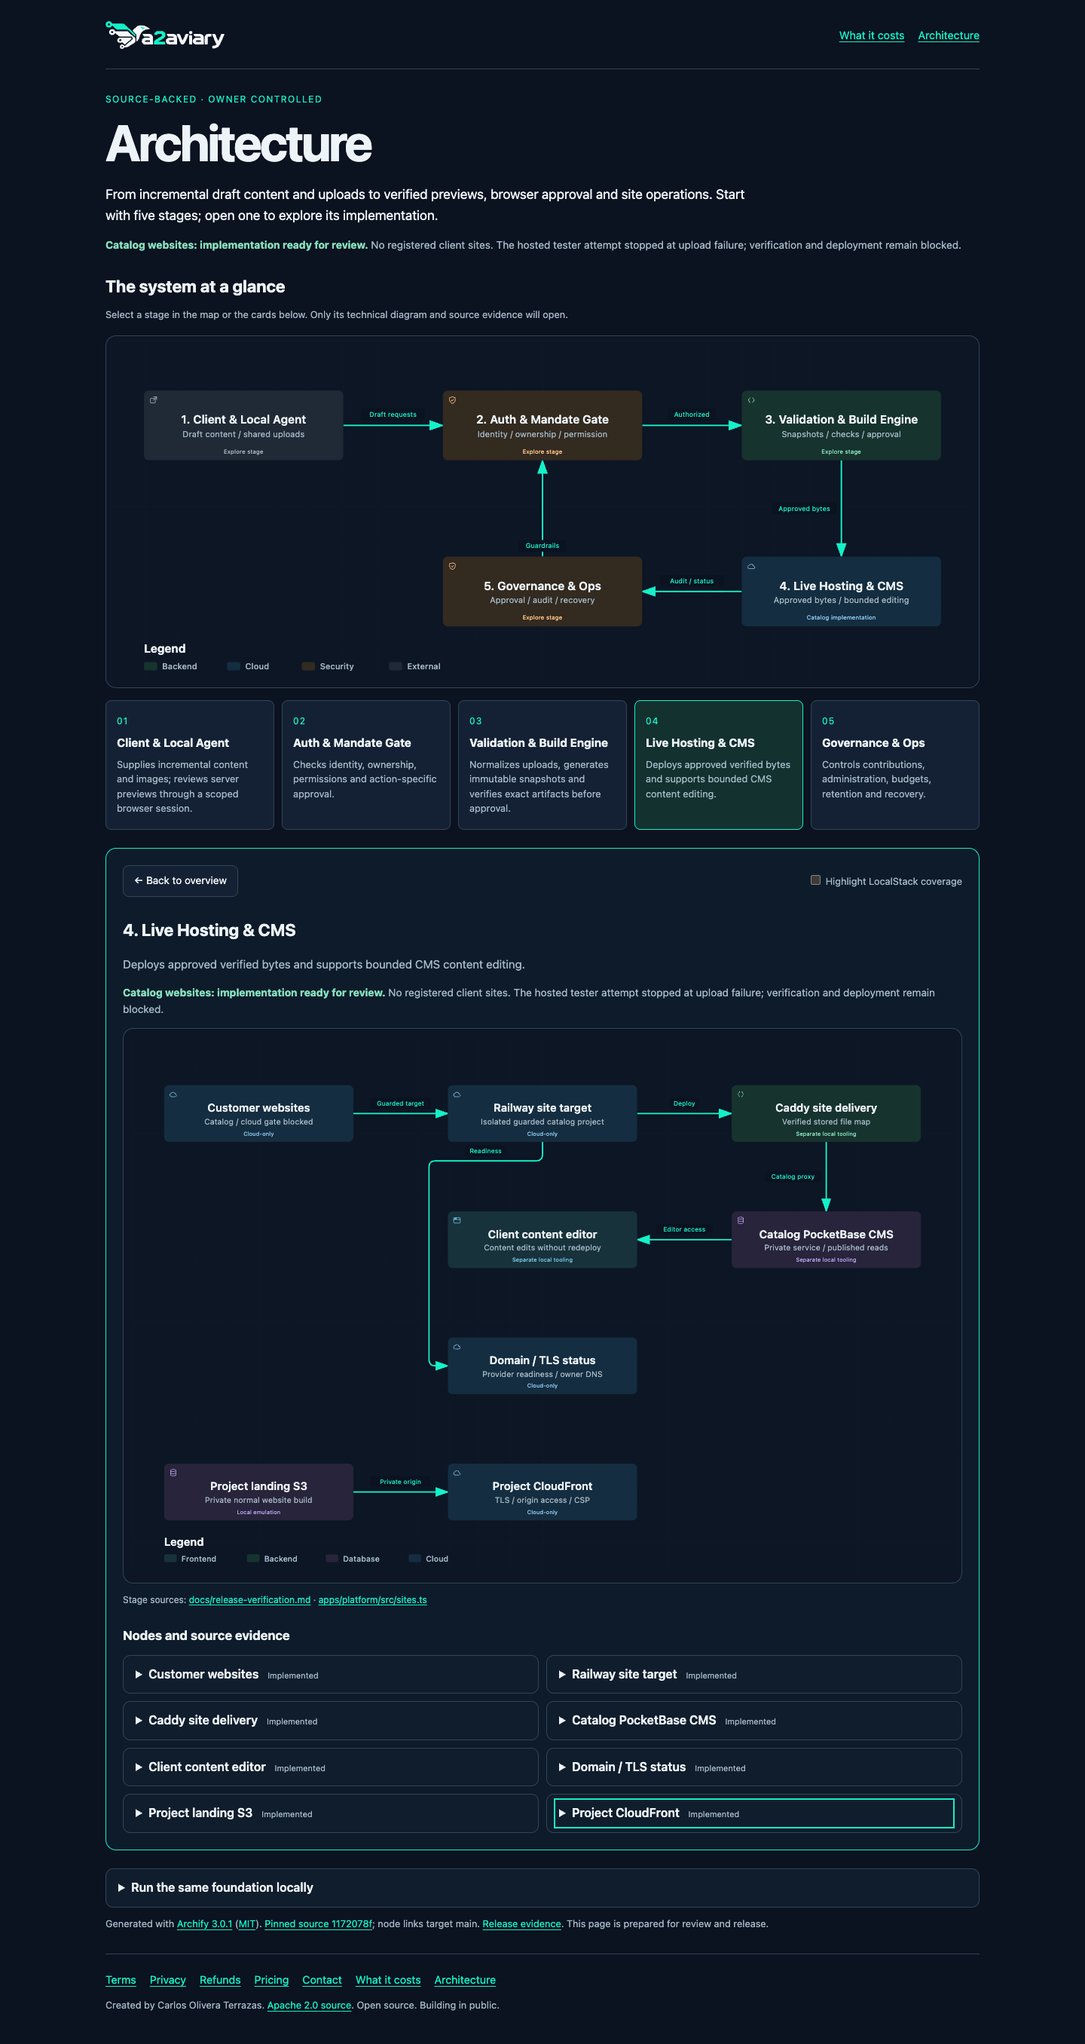
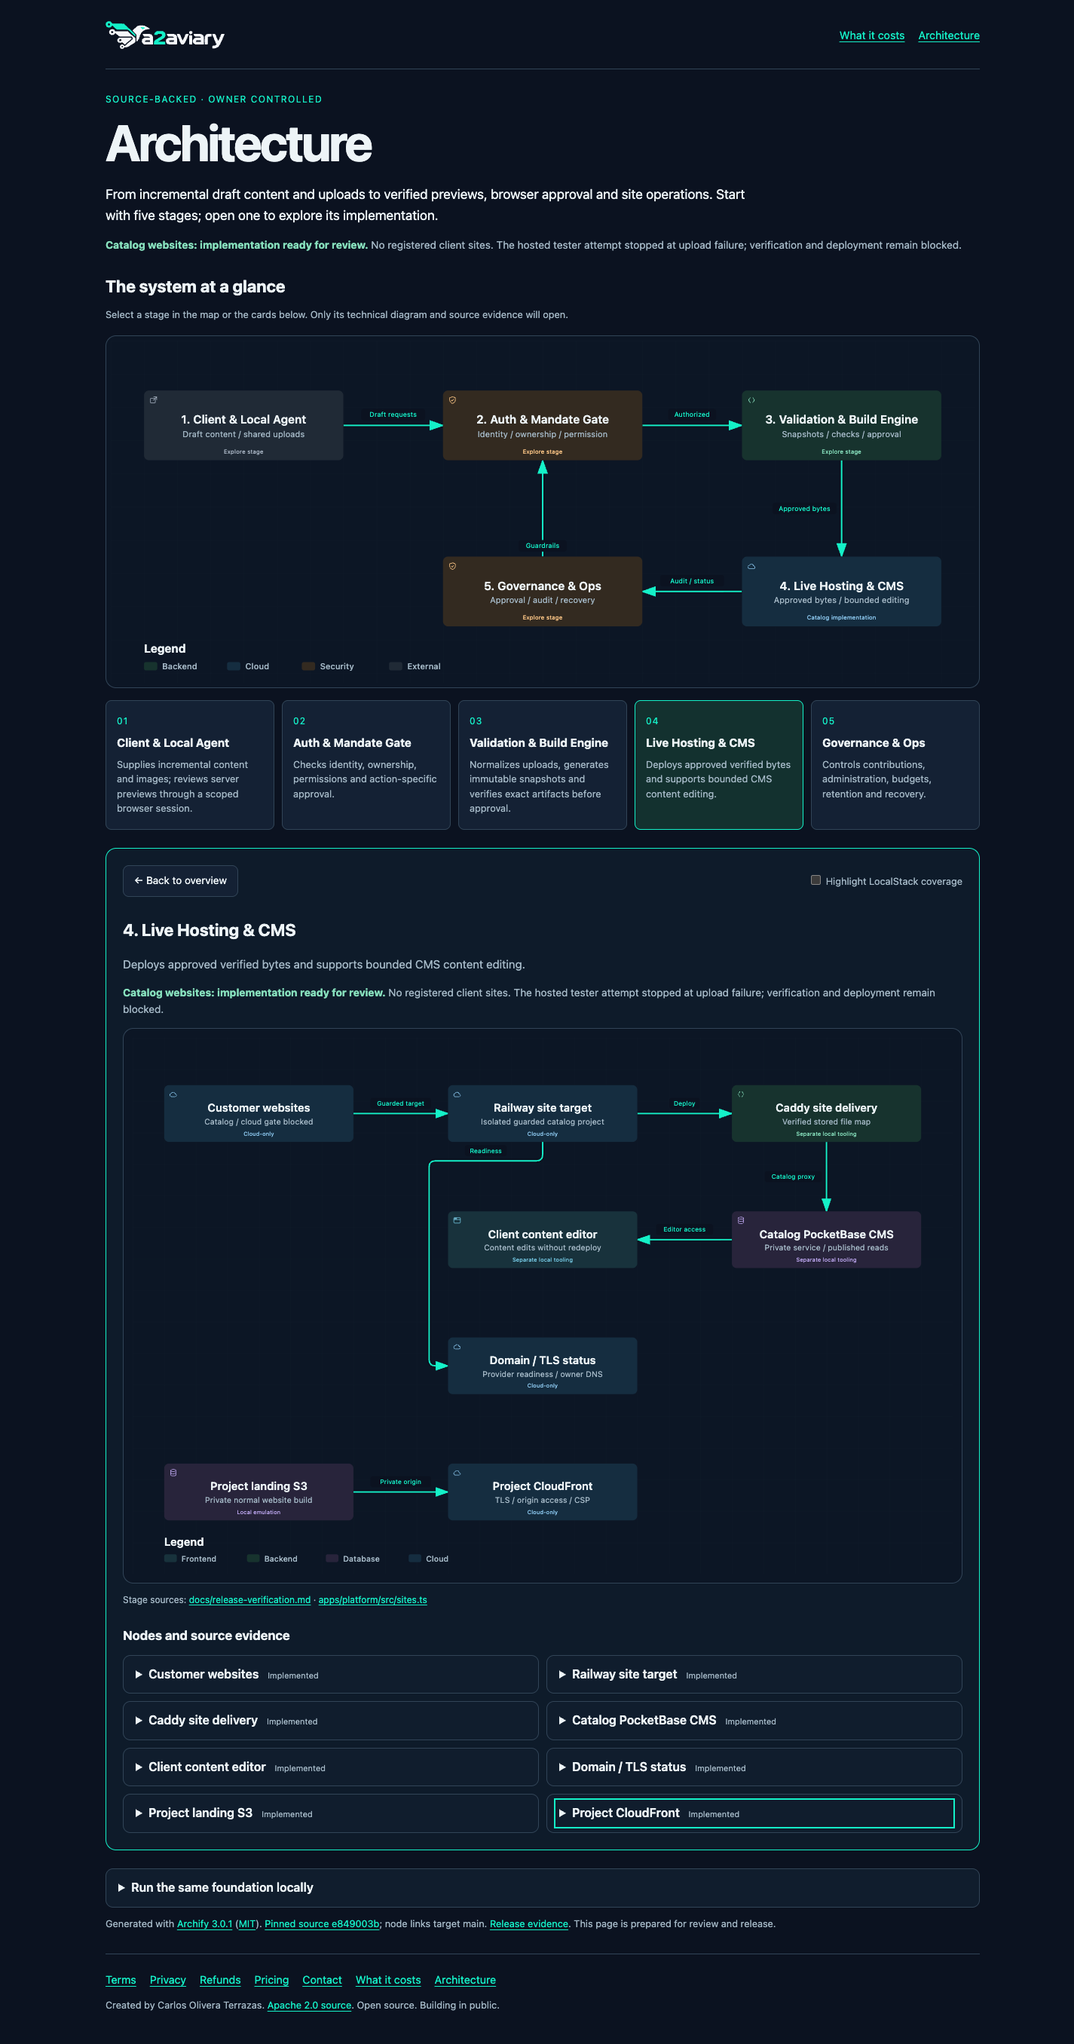
Refresh component library architecture provenance and local evidence

diff --git a/website/architecture/index.html b/website/architecture/index.html
@@ -656,15 +656,15 @@
         <text data-detail="fine" x="520" y="124" class="t-database" font-size="7" text-anchor="middle">Separate local tooling</text>
         </g>
 
-        <g id="engine-node-engine-astro" data-node-id="engine-astro" data-local-mode="Separate local tooling" data-status="Implemented" aria-controls="detail-engine-astro" data-node-label="Astro catalog generator" aria-label="Focus Astro catalog generator, Relative paths / fixed blocks, Architecture component" data-node-kind="backend" data-node-sublabel="Relative paths / fixed blocks" data-node-tag="Separate local tooling" data-node-context="Architecture component">
-          <title>Astro catalog generator · Relative paths / fixed blocks · Architecture component · Separate local tooling</title>
+        <g id="engine-node-engine-astro" data-node-id="engine-astro" data-local-mode="Separate local tooling" data-status="Implemented" aria-controls="detail-engine-astro" data-node-label="Astro catalog generator" aria-label="Focus Astro catalog generator, Checked templates / scoped CSS, Architecture component" data-node-kind="backend" data-node-sublabel="Checked templates / scoped CSS" data-node-tag="Separate local tooling" data-node-context="Architecture component">
+          <title>Astro catalog generator · Checked templates / scoped CSS · Architecture component · Separate local tooling</title>
           <rect x="760" y="60" width="240" height="72" rx="6" class="c-mask"/>
           <rect x="760" y="60" width="240" height="72" rx="6" class="c-backend" stroke-width="1.5"/>
           <g aria-hidden="true" data-semantic-sigil="backend" class="semantic-sigil s-backend" transform="translate(766 66) scale(0.6875)">
             <path d="M6 3 3 8l3 5M10 3l3 5-3 5"/>
           </g>
           <text data-node-label="" data-detail-anchor="" x="880" y="94" class="t-primary" font-size="11" font-weight="600" text-anchor="middle">Astro catalog generator</text>
-        <text data-detail="context" x="880" y="110" class="t-muted" font-size="9" text-anchor="middle">Relative paths / fixed blocks</text>
+        <text data-detail="context" x="880" y="110" class="t-muted" font-size="9" text-anchor="middle">Checked templates / scoped CSS</text>
         <text data-detail="fine" x="880" y="124" class="t-backend" font-size="7" text-anchor="middle">Separate local tooling</text>
         </g>
 
@@ -822,7 +822,7 @@
         </g>
       </svg></div><p class="stage-sources">Stage sources: <a href="https://github.com/carlos-olivera/a2aviary/blob/main/apps/platform/src/drafts.ts#L651">apps/platform/src/drafts.ts</a> · <a href="https://github.com/carlos-olivera/a2aviary/blob/main/apps/platform/src/sites.ts#L471">apps/platform/src/sites.ts</a></p><h3>Nodes and source evidence</h3><div class="node-list"><details id="detail-engine-validate" data-component="engine-validate"><summary>Draft and asset validation <span class="badge">Implemented</span></summary><p class="coverage-label">Local coverage: Separate local tooling</p><p>Draft batches validate atomically while missing content and forward references remain preview blockers. A bounded secret-free child produces metadata-stripped WebP; server metadata derives only from output bytes.</p><p><a href="https://github.com/carlos-olivera/a2aviary/blob/main/apps/platform/src/draft-content.ts#L206">apps/platform/src/draft-content.ts</a> · <a href="https://github.com/carlos-olivera/a2aviary/blob/main/packages/generator/src/normalize.ts#L6">packages/generator/src/normalize.ts</a></p></details>
 <details id="detail-engine-jobs" data-component="engine-jobs"><summary>Durable snapshot jobs <span class="badge">Implemented</span></summary><p class="coverage-label">Local coverage: Separate local tooling</p><p>Postgres retains drafts, receipts, upload sessions, snapshot provenance and jobs. Owner/test-scoped content/provenance reuse avoids duplicate provider attempts, never approval. One verification runs globally.</p><p><a href="https://github.com/carlos-olivera/a2aviary/blob/main/apps/platform/src/sites.ts#L471">apps/platform/src/sites.ts</a> · <a href="https://github.com/carlos-olivera/a2aviary/blob/main/apps/platform/migrations/007-server-drafts-preview.sql#L2">apps/platform/migrations/007-server-drafts-preview.sql</a></p></details>
-<details id="detail-engine-astro" data-component="engine-astro"><summary>Astro catalog generator <span class="badge">Implemented</span></summary><p class="coverage-label">Local coverage: Separate local tooling</p><p>Deterministic fixed catalog rendering uses relative page, CSS, font and image references so identical bytes work at signed snapshot paths and deployed roots.</p><p><a href="https://github.com/carlos-olivera/a2aviary/blob/main/packages/generator/src/render.ts#L47">packages/generator/src/render.ts</a></p></details>
+<details id="detail-engine-astro" data-component="engine-astro"><summary>Astro catalog generator <span class="badge">Implemented</span></summary><p class="coverage-label">Local coverage: Separate local tooling</p><p>Policy-matched component/variant packages compile to checked AST/CSS data. The core interpreter escapes text, owns wrappers and typed helpers, and emits only used scoped styles. Relative references still work at signed snapshot paths and deployed roots; local parity is verified, production activation remains unverified.</p><p><a href="https://github.com/carlos-olivera/a2aviary/blob/main/packages/generator/src/render.ts#L179">packages/generator/src/render.ts</a> · <a href="https://github.com/carlos-olivera/a2aviary/blob/main/packages/generator/src/library-template.ts#L153">packages/generator/src/library-template.ts</a> · <a href="https://github.com/carlos-olivera/a2aviary/blob/main/packages/generator/scripts/library.mjs#L170">packages/generator/scripts/library.mjs</a></p></details>
 <details id="detail-engine-verify" data-component="engine-verify"><summary>Agents verification <span class="badge">Implemented</span></summary><p class="coverage-label">Local coverage: Separate local tooling</p><p>The secret-free Agents setup checker runs syntax, Astro, axe, links and Lighthouse, with required screenshots for every authored page at 390/1280 px. Visual parity inputs are removed. The hosted attempt failed before verification.</p><p><a href="https://github.com/carlos-olivera/a2aviary/blob/main/packages/generator/src/verification.ts#L187">packages/generator/src/verification.ts</a> · <a href="https://github.com/carlos-olivera/a2aviary/blob/main/packages/generator/src/verification.ts#L58">packages/generator/src/verification.ts</a></p></details>
 <details id="detail-engine-artifacts" data-component="engine-artifacts"><summary>Immutable artifact store <span class="badge">Implemented</span></summary><p class="coverage-label">Local coverage: Separate local tooling</p><p>Private storage holds normalized assets and immutable build maps, hashes, reports and available failure screenshots. Signed previews expire after 15 minutes and apply both header and iframe sandboxing. Hosted bucket access/cleanup remains unresolved.</p><p><a href="https://github.com/carlos-olivera/a2aviary/blob/main/apps/platform/src/sites.ts#L426">apps/platform/src/sites.ts</a> · <a href="https://github.com/carlos-olivera/a2aviary/blob/main/packages/generator/src/storage.ts#L14">packages/generator/src/storage.ts</a></p></details>
 <details id="detail-engine-host" data-component="engine-host"><summary>Approved deployment gate <span class="badge">Implemented</span></summary><p class="coverage-label">Local coverage: Cloud-only</p><p>Admission and worker recheck current revision, approval, approver authorization, artifact hashes and tester classification. Only stored approved bytes reach the deployment adapter.</p><p><button type="button" data-stage-trigger="hosting" disabled>Explore the next stage →</button></p><p><a href="https://github.com/carlos-olivera/a2aviary/blob/main/apps/platform/src/sites.ts#L603">apps/platform/src/sites.ts</a></p></details>
@@ -1799,15 +1799,15 @@
         <text data-detail="fine" x="520" y="124" class="t-database" font-size="7" text-anchor="middle">Separate local tooling</text>
         </g>
 
-        <g id="engine-node-engine-astro" data-node-id="engine-astro" data-local-mode="Separate local tooling" data-status="Implemented" aria-controls="detail-engine-astro" data-node-label="Astro catalog generator" aria-label="Focus Astro catalog generator, Relative paths / fixed blocks, Architecture component" data-node-kind="backend" data-node-sublabel="Relative paths / fixed blocks" data-node-tag="Separate local tooling" data-node-context="Architecture component">
-          <title>Astro catalog generator · Relative paths / fixed blocks · Architecture component · Separate local tooling</title>
+        <g id="engine-node-engine-astro" data-node-id="engine-astro" data-local-mode="Separate local tooling" data-status="Implemented" aria-controls="detail-engine-astro" data-node-label="Astro catalog generator" aria-label="Focus Astro catalog generator, Checked templates / scoped CSS, Architecture component" data-node-kind="backend" data-node-sublabel="Checked templates / scoped CSS" data-node-tag="Separate local tooling" data-node-context="Architecture component">
+          <title>Astro catalog generator · Checked templates / scoped CSS · Architecture component · Separate local tooling</title>
           <rect x="760" y="60" width="240" height="72" rx="6" class="c-mask"/>
           <rect x="760" y="60" width="240" height="72" rx="6" class="c-backend" stroke-width="1.5"/>
           <g aria-hidden="true" data-semantic-sigil="backend" class="semantic-sigil s-backend" transform="translate(766 66) scale(0.6875)">
             <path d="M6 3 3 8l3 5M10 3l3 5-3 5"/>
           </g>
           <text data-node-label="" data-detail-anchor="" x="880" y="94" class="t-primary" font-size="11" font-weight="600" text-anchor="middle">Astro catalog generator</text>
-        <text data-detail="context" x="880" y="110" class="t-muted" font-size="9" text-anchor="middle">Relative paths / fixed blocks</text>
+        <text data-detail="context" x="880" y="110" class="t-muted" font-size="9" text-anchor="middle">Checked templates / scoped CSS</text>
         <text data-detail="fine" x="880" y="124" class="t-backend" font-size="7" text-anchor="middle">Separate local tooling</text>
         </g>
 
@@ -1965,7 +1965,7 @@
         </g>
       </svg></div><p class="stage-sources">Stage sources: <a href="https://github.com/carlos-olivera/a2aviary/blob/main/apps/platform/src/drafts.ts#L651">apps/platform/src/drafts.ts</a> · <a href="https://github.com/carlos-olivera/a2aviary/blob/main/apps/platform/src/sites.ts#L471">apps/platform/src/sites.ts</a></p><h3>Nodes and source evidence</h3><div class="node-list"><details id="detail-engine-validate" data-component="engine-validate"><summary>Draft and asset validation <span class="badge">Implemented</span></summary><p class="coverage-label">Local coverage: Separate local tooling</p><p>Draft batches validate atomically while missing content and forward references remain preview blockers. A bounded secret-free child produces metadata-stripped WebP; server metadata derives only from output bytes.</p><p><a href="https://github.com/carlos-olivera/a2aviary/blob/main/apps/platform/src/draft-content.ts#L206">apps/platform/src/draft-content.ts</a> · <a href="https://github.com/carlos-olivera/a2aviary/blob/main/packages/generator/src/normalize.ts#L6">packages/generator/src/normalize.ts</a></p></details>
 <details id="detail-engine-jobs" data-component="engine-jobs"><summary>Durable snapshot jobs <span class="badge">Implemented</span></summary><p class="coverage-label">Local coverage: Separate local tooling</p><p>Postgres retains drafts, receipts, upload sessions, snapshot provenance and jobs. Owner/test-scoped content/provenance reuse avoids duplicate provider attempts, never approval. One verification runs globally.</p><p><a href="https://github.com/carlos-olivera/a2aviary/blob/main/apps/platform/src/sites.ts#L471">apps/platform/src/sites.ts</a> · <a href="https://github.com/carlos-olivera/a2aviary/blob/main/apps/platform/migrations/007-server-drafts-preview.sql#L2">apps/platform/migrations/007-server-drafts-preview.sql</a></p></details>
-<details id="detail-engine-astro" data-component="engine-astro"><summary>Astro catalog generator <span class="badge">Implemented</span></summary><p class="coverage-label">Local coverage: Separate local tooling</p><p>Deterministic fixed catalog rendering uses relative page, CSS, font and image references so identical bytes work at signed snapshot paths and deployed roots.</p><p><a href="https://github.com/carlos-olivera/a2aviary/blob/main/packages/generator/src/render.ts#L47">packages/generator/src/render.ts</a></p></details>
+<details id="detail-engine-astro" data-component="engine-astro"><summary>Astro catalog generator <span class="badge">Implemented</span></summary><p class="coverage-label">Local coverage: Separate local tooling</p><p>Policy-matched component/variant packages compile to checked AST/CSS data. The core interpreter escapes text, owns wrappers and typed helpers, and emits only used scoped styles. Relative references still work at signed snapshot paths and deployed roots; local parity is verified, production activation remains unverified.</p><p><a href="https://github.com/carlos-olivera/a2aviary/blob/main/packages/generator/src/render.ts#L179">packages/generator/src/render.ts</a> · <a href="https://github.com/carlos-olivera/a2aviary/blob/main/packages/generator/src/library-template.ts#L153">packages/generator/src/library-template.ts</a> · <a href="https://github.com/carlos-olivera/a2aviary/blob/main/packages/generator/scripts/library.mjs#L170">packages/generator/scripts/library.mjs</a></p></details>
 <details id="detail-engine-verify" data-component="engine-verify"><summary>Agents verification <span class="badge">Implemented</span></summary><p class="coverage-label">Local coverage: Separate local tooling</p><p>The secret-free Agents setup checker runs syntax, Astro, axe, links and Lighthouse, with required screenshots for every authored page at 390/1280 px. Visual parity inputs are removed. The hosted attempt failed before verification.</p><p><a href="https://github.com/carlos-olivera/a2aviary/blob/main/packages/generator/src/verification.ts#L187">packages/generator/src/verification.ts</a> · <a href="https://github.com/carlos-olivera/a2aviary/blob/main/packages/generator/src/verification.ts#L58">packages/generator/src/verification.ts</a></p></details>
 <details id="detail-engine-artifacts" data-component="engine-artifacts"><summary>Immutable artifact store <span class="badge">Implemented</span></summary><p class="coverage-label">Local coverage: Separate local tooling</p><p>Private storage holds normalized assets and immutable build maps, hashes, reports and available failure screenshots. Signed previews expire after 15 minutes and apply both header and iframe sandboxing. Hosted bucket access/cleanup remains unresolved.</p><p><a href="https://github.com/carlos-olivera/a2aviary/blob/main/apps/platform/src/sites.ts#L426">apps/platform/src/sites.ts</a> · <a href="https://github.com/carlos-olivera/a2aviary/blob/main/packages/generator/src/storage.ts#L14">packages/generator/src/storage.ts</a></p></details>
 <details id="detail-engine-host" data-component="engine-host"><summary>Approved deployment gate <span class="badge">Implemented</span></summary><p class="coverage-label">Local coverage: Cloud-only</p><p>Admission and worker recheck current revision, approval, approver authorization, artifact hashes and tester classification. Only stored approved bytes reach the deployment adapter.</p><p><button type="button" data-stage-trigger="hosting" disabled>Explore the next stage →</button></p><p><a href="https://github.com/carlos-olivera/a2aviary/blob/main/apps/platform/src/sites.ts#L603">apps/platform/src/sites.ts</a></p></details>
@@ -2468,5 +2468,5 @@
 <details class="local-setup" id="local-setup"><summary>Run the same foundation locally</summary><p>With Docker and Node.js 22, run <code>npm --prefix infra run local:quickstart</code>. The LocalStack environment runs the AWS signed-email foundation and serves the normal project website build.</p><p>The auth/MCP platform, Astro generator and PocketBase/Caddy have <strong>separate local tooling</strong>; they are not started by this LocalStack quickstart. See <a href="https://github.com/carlos-olivera/a2aviary/blob/main/docs/platform.md">platform setup</a> and <a href="https://github.com/carlos-olivera/a2aviary/blob/main/docs/sites.md">site/CMS checks</a>.</p>
 <ul class="legend"><li><strong>Local emulation</strong> — shared AWS resources/workers</li><li><strong>Mock</strong> — fixed external-service responses</li><li><strong>Adapter</strong> — explicit protocol boundary</li><li><strong>Separate local tooling</strong> — not in this quickstart</li><li><strong>Cloud-only</strong> — skipped by this local setup</li><li><strong>Planned</strong> — future customer products</li></ul>
 <p>CloudFront, public DNS/TLS, production OIDC, provider hosting, AWS billing budgets, real mailbox delivery and owner notifications are cloud-only here. A local pass does not establish production delivery or IAM enforcement. TTL/lifecycle expiration is asynchronous; billing notifications are not hard spending caps.</p><p><a href="https://github.com/carlos-olivera/a2aviary/blob/main/docs/local-development.md">Quickstart, cleanup, coverage and troubleshooting →</a></p></details>
-<p class="map-credit">Generated with <a href="https://github.com/tt-a1i/archify">Archify 3.0.1</a> (<a href="/licenses/archify-MIT.txt">MIT</a>). <a href="https://github.com/carlos-olivera/a2aviary/tree/1172078f951fde717833f4f6028e5d0b24b5a458">Pinned source 1172078f</a>; node links target main. <a href="https://github.com/carlos-olivera/a2aviary/blob/main/docs/release-verification.md">Release evidence</a>. This page is prepared for review and release.</p>
+<p class="map-credit">Generated with <a href="https://github.com/tt-a1i/archify">Archify 3.0.1</a> (<a href="/licenses/archify-MIT.txt">MIT</a>). <a href="https://github.com/carlos-olivera/a2aviary/tree/e849003b2be30c251ac33c0c18c8aaa337ecc0b7">Pinned source e849003b</a>; node links target main. <a href="https://github.com/carlos-olivera/a2aviary/blob/main/docs/release-verification.md">Release evidence</a>. This page is prepared for review and release.</p>
 </main><footer><nav class="policy-links" aria-label="Policies and contact"><a href="/terms">Terms</a><a href="/privacy">Privacy</a><a href="/refunds">Refunds</a><a href="/pricing">Pricing</a><a href="/#contact">Contact</a><a href="/costs">What it costs</a><a href="/architecture">Architecture</a></nav><p>Created by Carlos Olivera Terrazas. <a href="https://github.com/carlos-olivera/a2aviary/blob/main/LICENSE">Apache 2.0 source</a>. Open source. Building in public.</p></footer></div></body></html>

diff --git a/CHANGELOG.md b/CHANGELOG.md
@@ -7,6 +7,7 @@
 - Enforce library checks through generator check/build/test and the existing services CI check without changing workflows or adding dependencies. Add [proposed decision 014](docs/decisions/014-component-library.md), maintainer documentation, hostile-input regressions and a pinned baseline HTML/CMS fixture.
 - Node.js 22.23.3 generator check/build and 53 tests passed; platform check/build and 58 tests passed against loopback Postgres, with the hosted test explicitly skipped; services check/build and 104 tests and infrastructure build/nine tests passed. The real seven-page Astro verifier passed 37 checks; local PocketBase/Caddy editing and both volume cases passed. The local non-root platform image generated seven pages without a source library directory or network access.
 - Compared every page in the manifest example and existing fixture against main `02b8115` at 390/1280 px, with empty/populated/error CMS responses: all 84 decoded-pixel comparisons had zero differences. HTML matched after whitespace normalization and removing only new `data-v` attributes. Inspected the mobile/desktop home captures; the [repeatable procedure](packages/generator/README.md#equivalence-procedure) retains before/after/diff evidence locally. No intentional visual or content differences.
+- Regenerated all six architecture drawings against committed library source; all four gates passed. Added library source fingerprints. Website check/build and integrated browser checks passed five stages/44 nodes, keyboard/focus, desktop/mobile and JavaScript-free behavior under production CSP; inspected the desktop/mobile, engine and hosting route captures. Relative documentation links and whitespace checks passed.
 - No policy/contract/migration change, hosted fixture, production configuration, deployment, merge or HTTP 503 repair. Delivery stops at an Operator-authored PR for owner review; merging main auto-deploys, and no new configuration is required.
 
 ## 2026-10-08 — site runtime flag startup repair
